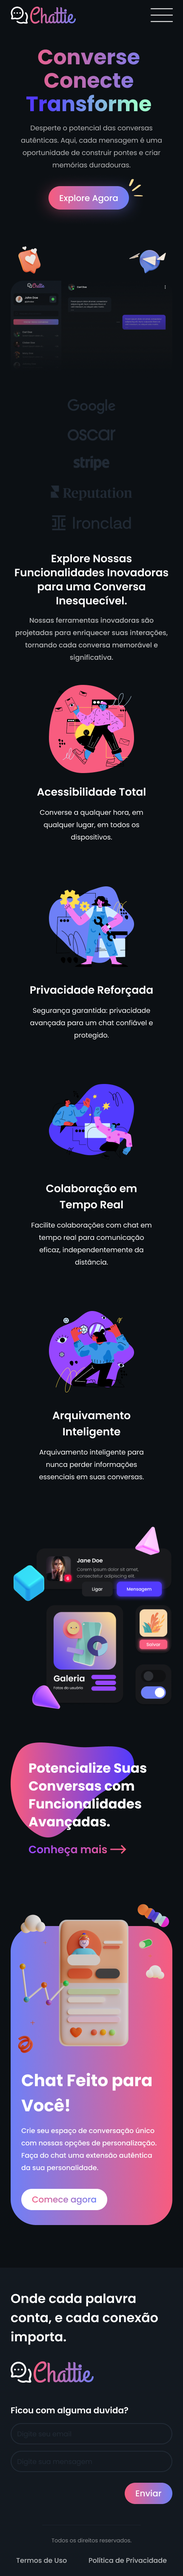
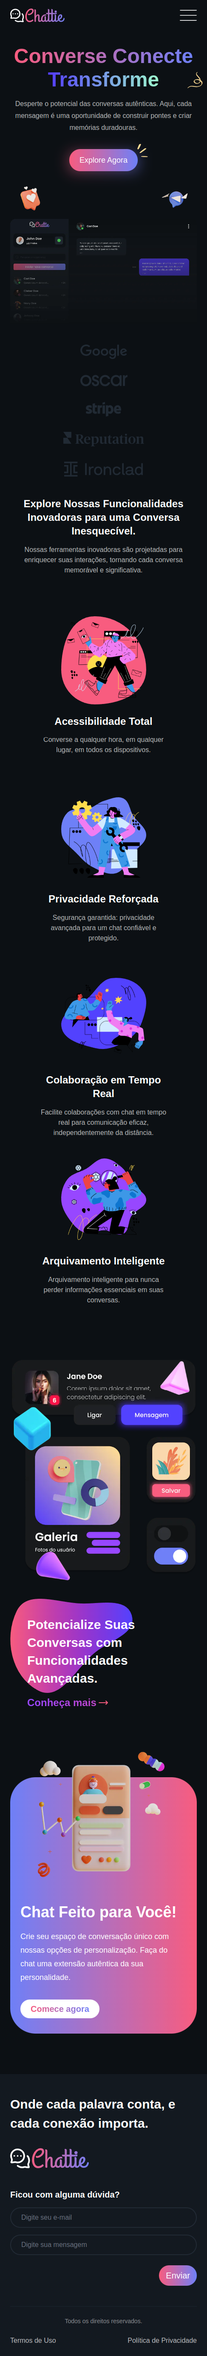
added new colors and new project

Changed region(s): [[0.0302, 0.1555, 0.9674, 0.9638], [0.0605, 0.0, 0.9372, 0.1555], [0.6047, 0.9638, 0.9372, 0.9949]]

diff --git a/constants/projects/index.ts b/constants/projects/index.ts
@@ -1,28 +1,41 @@
 export const projectsData = [
-    {
-        desktopUrl: "/images/landing-page-desktop-1.png",
-        desktopWidth: 1920,
-        desktopHeight: 5379,
-        mobileUrl: "/images/landing-page-mobile-1.png",
-        mobileWidth: 378,
-        mobileHeight: 5371,
-        category: "Landing Page",
-        link: "https://vetpet-tawny.vercel.app/",
-        title: "VetPet",
-        description:
-            "Uma landing page dedicada a proporcionar cuidados veterinários excepcionais, promovendo saúde e alegria para pets. Descubra uma abordagem calorosa e personalizada em cada visita, fortalecendo laços entre animais de estimação e seus tutores.",
-    },
-    {
-        desktopUrl: "/images/platform-desktop-1.png",
-        desktopWidth: 1920,
-        desktopHeight: 4397,
-        mobileUrl: "/images/platform-mobile-1.png",
-        mobileWidth: 430,
-        mobileHeight: 6048,
-        category: "Plataforma",
-        link: "https://chattier.vercel.app/",
-        title: "Chattier",
-        description:
-            "Uma inovadora plataforma de chat que conecta pessoas de maneira intuitiva e envolvente. Desenvolvida para proporcionar experiências de comunicação únicas e dinâmicas.",
-    },
+  {
+    desktopUrl: "/images/landing-page-desktop-1.png",
+    desktopWidth: 1920,
+    desktopHeight: 5379,
+    mobileUrl: "/images/landing-page-mobile-1.png",
+    mobileWidth: 487,
+    mobileHeight: 5239,
+    category: "Landing Page",
+    link: "https://vetpet-tawny.vercel.app/",
+    title: "VetPet",
+    description:
+      "Uma landing page dedicada a proporcionar cuidados veterinários excepcionais, promovendo saúde e alegria para pets. Descubra uma abordagem calorosa e personalizada em cada visita, fortalecendo laços entre animais de estimação e seus tutores.",
+  },
+  {
+    desktopUrl: "/images/platform-desktop-1.png",
+    desktopWidth: 1920,
+    desktopHeight: 4397,
+    mobileUrl: "/images/platform-mobile-1.png",
+    mobileWidth: 487,
+    mobileHeight: 5532,
+    category: "Plataforma",
+    link: "https://chattier.vercel.app/",
+    title: "Chattier",
+    description:
+      "Uma inovadora plataforma de chat que conecta pessoas de maneira intuitiva e envolvente. Desenvolvida para proporcionar experiências de comunicação únicas e dinâmicas.",
+  },
+  {
+    desktopUrl: "/images/hanazaki-studio-desktop.png",
+    desktopWidth: 1920,
+    desktopHeight: 4617,
+    mobileUrl: "/images/hanazaki-studio-mobile.png",
+    mobileWidth: 603,
+    mobileHeight: 5450,
+    category: "Site Institucional",
+    link: "https://www.hanazakistudio.com/",
+    title: "Hanazaki Studio",
+    description:
+      "A Hanazaki Studio oferece soluções personalizadas em visualização arquitetônica, buscando atender às necessidades específicas de cada cliente para impulsionar vendas e alcançar metas empresariais. Conheça as oportunidades para potencializar seu empreendimento.",
+  },
 ];

diff --git a/app/projetos/components/project-box.tsx b/app/projetos/components/project-box.tsx
@@ -75,9 +75,9 @@ export const ProjectBox = ({
           <span
             className={cn(
               "flex items-center justify-center px-2 py-1 rounded-sm text-white text-sm font-normal text-center",
-              category === "Landing Page" && "bg-cyan-300/70",
-              category === "Site Institucional" && "bg-pink-600/70",
-              category === "Plataforma" && "bg-purple-600/70"
+              category === "Landing Page" && "bg-[#2670DF]/70",
+              category === "Site Institucional" && "bg-[#44BC87]/70",
+              category === "Plataforma" && "bg-[#5957E2]/70"
             )}
           >
             {category}
